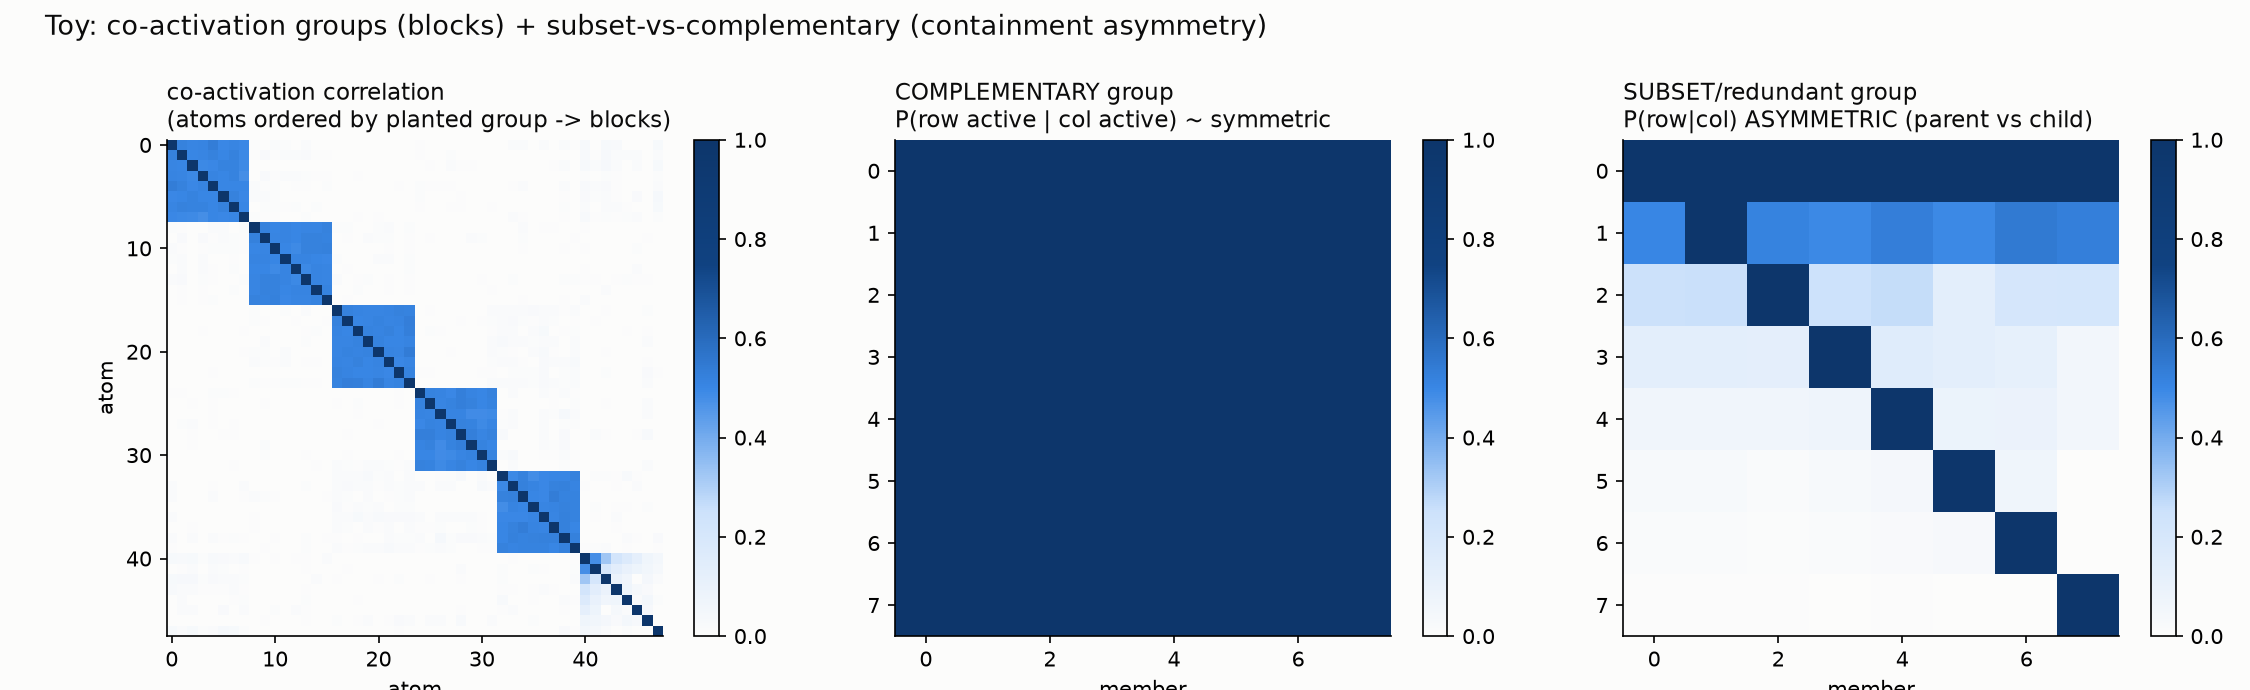
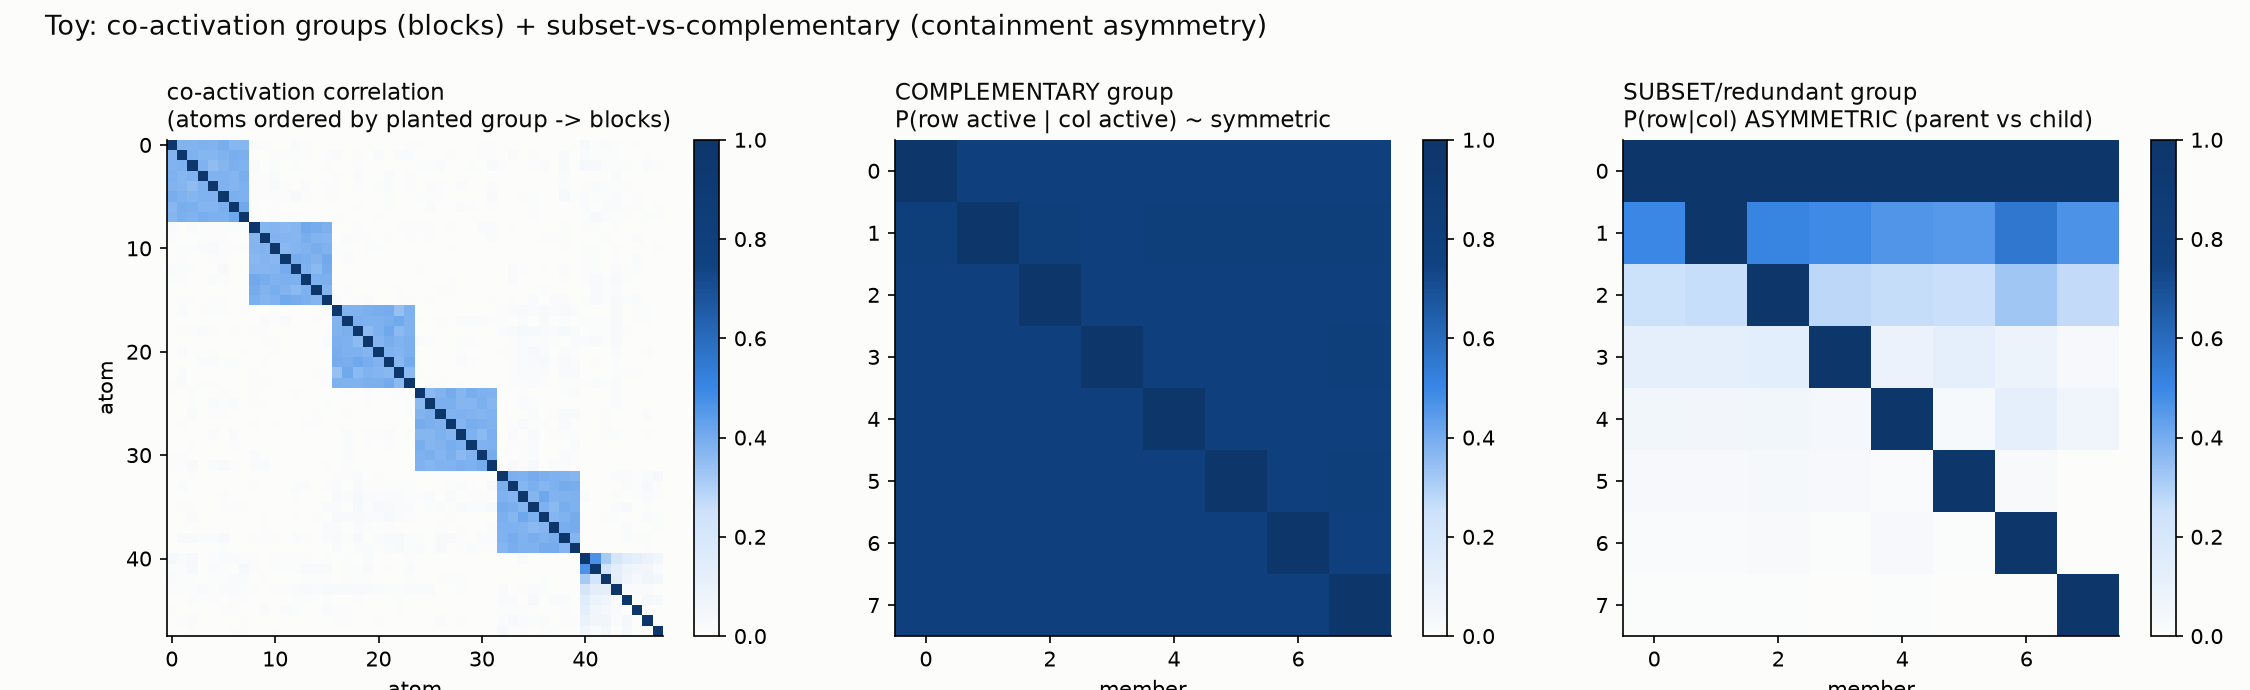
toy_group_semantic: complementary members fire probabilistically (p=0.8) so containment is symmetric-but-<1, not degenerate all-1 (user caught the ceiling artifact); ARI still 1.0, subset asym 0.36 vs 0.01
Claude-Session: https://claude.ai/code/session_01U2g27AYkgJeumNFPGf46Dd

Changed region(s): [[0.0622, 0.1826, 0.28, 0.8217], [0.8089, 0.2739, 0.9333, 0.487]]

diff --git a/basis_aligned/bilinear_quotient/toy_group_semantic.py b/basis_aligned/bilinear_quotient/toy_group_semantic.py
@@ -53,7 +53,11 @@ def plant(seed=0):
     for g in range(G):
         mem = groups[g]; on = gact[:, g]
         if g < G-1:                                               # COMPLEMENTARY
-            for a in mem: code[on, a] = np.abs(rng.randn(on.sum()))
+            # members co-fire but PROBABILISTICALLY (p=0.8 each when group on) ->
+            # containment symmetric but < 1 (a real circuit, not perfect lockstep)
+            for a in mem:
+                fires = on & (rng.rand(N) < 0.8)
+                code[fires, a] = np.abs(rng.randn(fires.sum()))
         else:                                                     # SUBSET / redundant
             for k, a in enumerate(mem):
                 fires = on & (rng.rand(N) < 0.5**k)               # nested subsets
